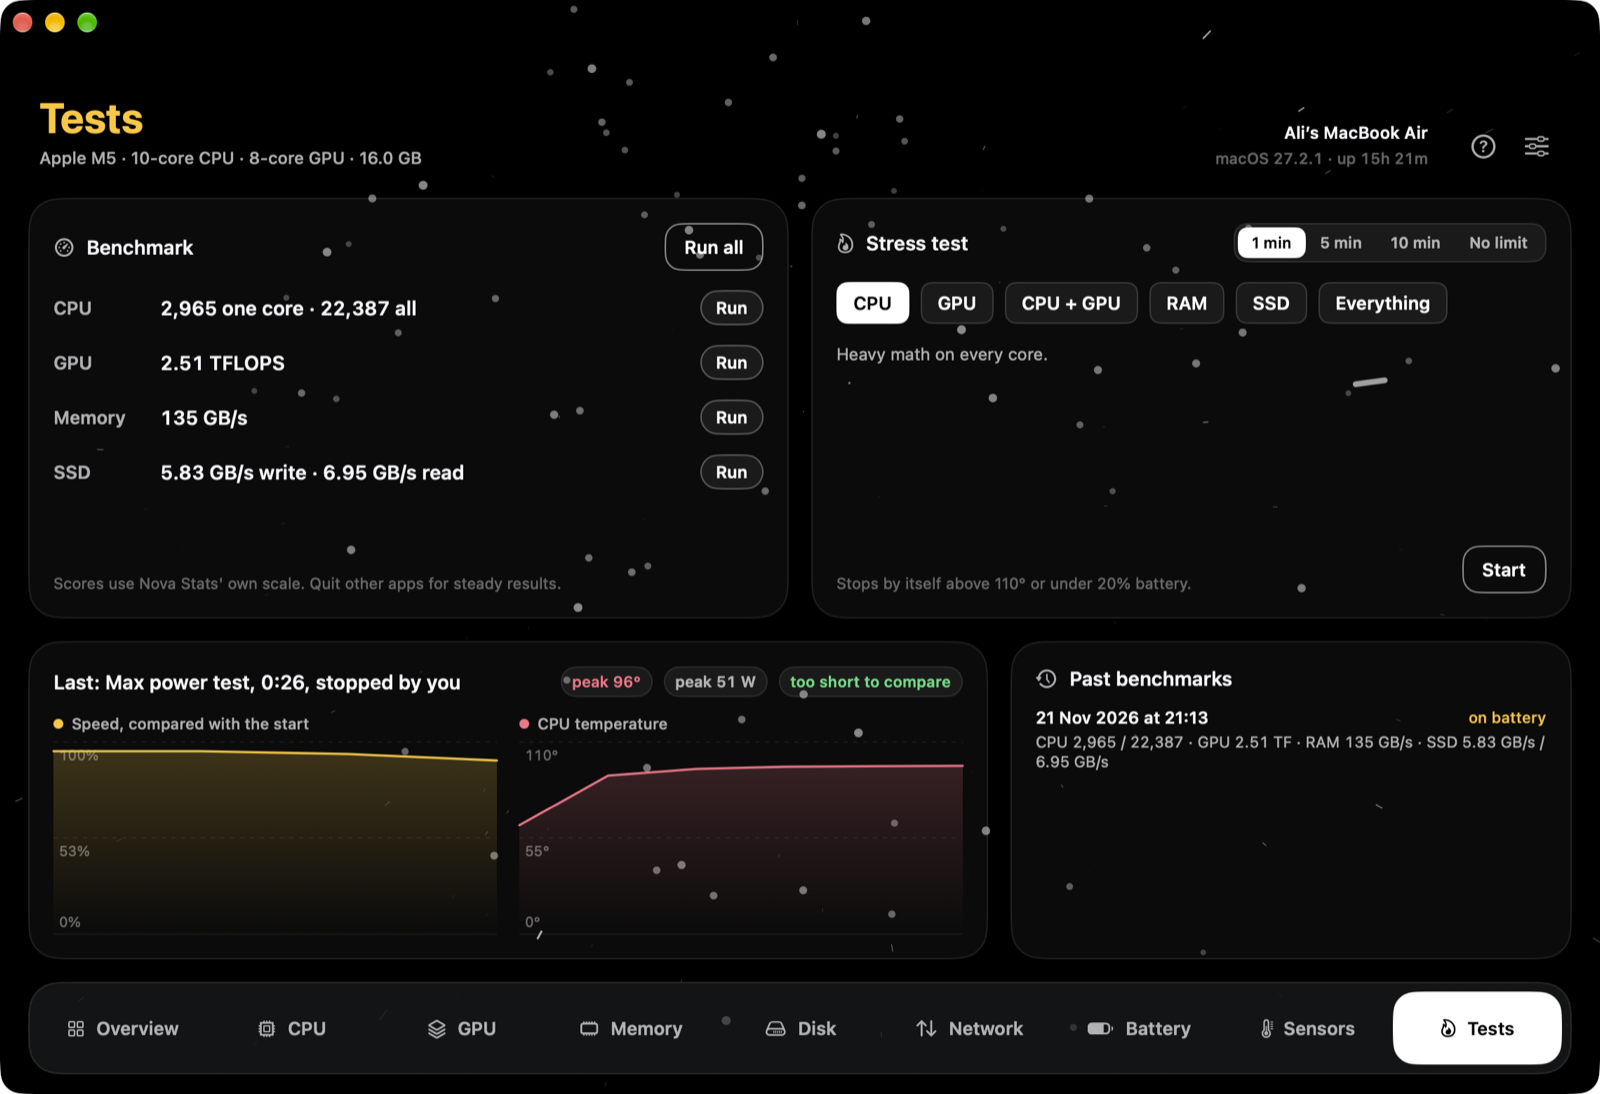
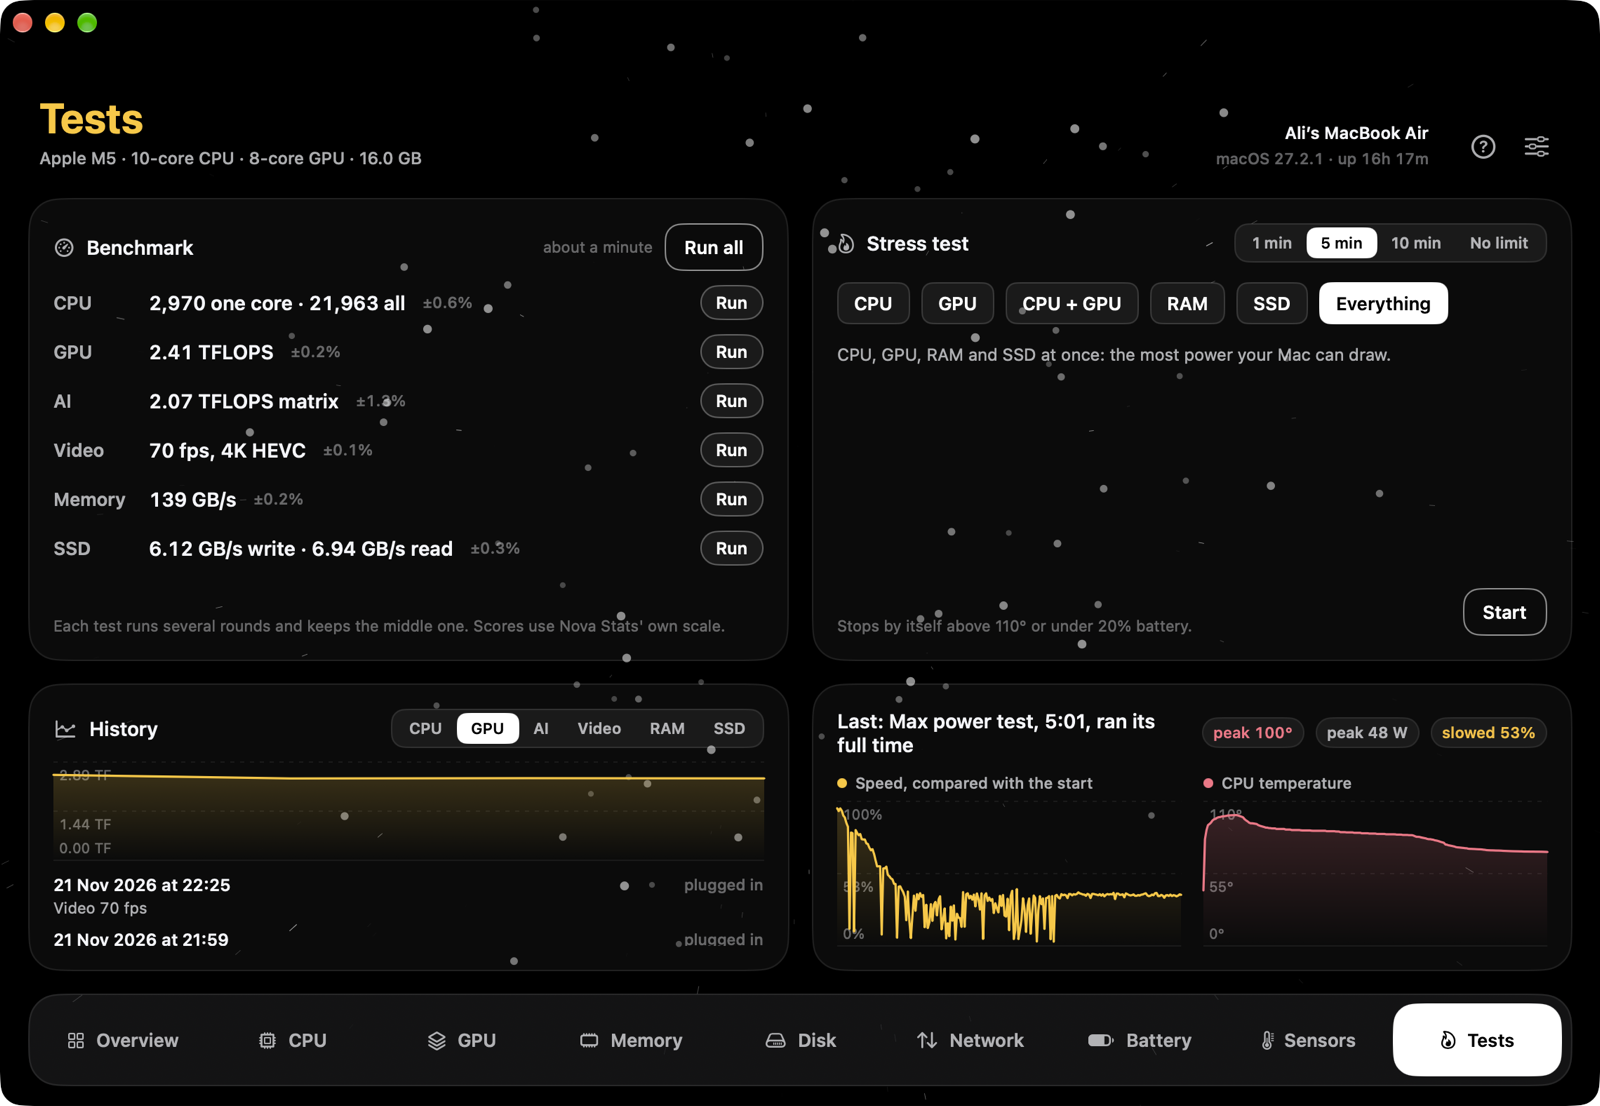
1.3.0: README, website and release notes

diff --git a/docs/index.html b/docs/index.html
@@ -204,6 +204,24 @@
         <p>CPU, GPU, SSD and battery, plus every other sensor the chip has. In °C or °F.</p>
       </div>
     </div>
+    <div class="grid" style="margin-top:16px">
+      <div class="card">
+        <svg viewBox="0 0 24 24"><path d="M12 3l9 5-9 5-9-5z"/><path d="M3 13l9 5 9-5"/></svg>
+        <h3>Chip heat map</h3>
+        <p>A 3D chip with every core sensor lit by its own temperature, so you can see which part of the chip is working hardest.</p>
+      </div>
+      <div class="card">
+        <svg viewBox="0 0 24 24"><path d="M3 7a2 2 0 0 1 2-2h4l2 2h8a2 2 0 0 1 2 2v8a2 2 0 0 1-2 2H5a2 2 0 0 1-2-2z"/><path d="M8 15h8"/></svg>
+        <h3>Storage map</h3>
+        <p>Which folders and files take the most space in your home folder. Click into any folder and show it in Finder. No permission popups.</p>
+      </div>
+      <div class="card">
+        <svg viewBox="0 0 24 24"><path d="M12 3a3 3 0 0 0-3 3v5a3 3 0 0 0 6 0V6a3 3 0 0 0-3-3z"/><path d="M5 11a7 7 0 0 0 14 0M12 18v3"/></svg>
+        <h3>Siri and Shortcuts</h3>
+        <p>"How hot is my Mac in Nova Stats." Ask Siri, or use Nova Stats' actions in the Shortcuts app.</p>
+      </div>
+    </div>
+    <div class="shot" style="margin-top:16px"><img src="sensors.png" alt="The Sensors tab: the 3D chip heat map with performance cores, efficiency cores and GPU lit by temperature, next to the list of every sensor"></div>
     <div class="shot" style="margin-top:16px"><img src="battery.png" alt="The Battery tab: 22% and charging, 6 W for the whole Mac, health 100%, 54 charge cycles, the charger and a power chart"></div>
   </section>
 
@@ -233,7 +251,7 @@
     <div class="grid" style="margin-top:16px">
       <div class="card">
         <svg viewBox="0 0 24 24"><rect x="3" y="6" width="18" height="12" rx="3"/><path d="M7 10h1M11 10h1M15 10h2M7 14h10"/></svg>
-        <h3>Shortcuts from anywhere</h3>
+        <h3>Keyboard shortcuts</h3>
         <p><code>⌃⌥N</code> opens the dashboard, <code>⌃⌥G</code> starts game mode and <code>⌃⌥H</code> hides its overlay, from any app. You can change all three.</p>
       </div>
       <div class="card">
@@ -251,13 +269,13 @@
 
   <section class="block" id="tests">
     <h2>Benchmark and stress test</h2>
-    <p class="lead">Score the CPU, GPU, memory and SSD, then push them to the limit and watch what heat does to a Mac. Tests stop by themselves above 110°, under 20% battery or when the time is up.</p>
-    <div class="shot" style="margin-top:0"><img src="tests.png" alt="The Tests tab: benchmark scores for CPU, GPU, memory and SSD, the stress test picker, and charts of speed and temperature from the last stress test"></div>
+    <p class="lead">Score the CPU, GPU, AI math, video engine, memory and SSD, then push them to the limit and watch what heat does to a Mac. Tests stop by themselves above 110°, under 20% battery or when the time is up.</p>
+    <div class="shot" style="margin-top:0"><img src="tests.png" alt="The Tests tab: benchmark scores for CPU, GPU, AI, video, memory and SSD with how steady each one was, the history chart, the stress test picker, and charts from the last stress test"></div>
     <div class="grid" style="margin-top:16px">
       <div class="card">
         <svg viewBox="0 0 24 24"><path d="M12 14l4-4M5.6 18.4a9 9 0 1 1 12.8 0"/></svg>
         <h3>Benchmark</h3>
-        <p>One core and all cores, GPU in TFLOPS, memory and SSD speed. Your past runs are kept, on battery or plugged in, so you can compare.</p>
+        <p>One core and all cores, GPU and AI matrix math in TFLOPS, 4K video encoding, memory and SSD speed. Each test runs several rounds and keeps the middle one. A history chart and a compare button show how your runs differ.</p>
       </div>
       <div class="card">
         <svg viewBox="0 0 24 24"><path d="M12 3c1 4 5 5 5 10a5 5 0 0 1-10 0c0-3 2-4 2-7 2 1 3 3 3 3"/></svg>
@@ -304,6 +322,9 @@
       <details><summary>Can a stress test damage my Mac?</summary><p>No. Apple Silicon protects itself: when it gets too hot, macOS slows it down, which is exactly what the test shows. Nova Stats also stops a test by itself above 110°, under 20% battery or when its time is up. The SSD test only reads, so it doesn't wear the SSD, and the RAM test never takes so much memory that macOS has to swap.</p></details>
       <details><summary>Why don't my scores match Geekbench or Cinebench?</summary><p>Every benchmark uses its own work and its own scale. Nova Stats' scores are for comparing your own runs: plugged in or on battery, before and after an update, or with another Mac running Nova Stats.</p></details>
       <details><summary>What is game mode?</summary><p>Turn it on from the menu bar or with ⌃⌥G, or let it start by itself when a game goes full screen. While it's on, an overlay shows your stats over the game and warns you if the Mac gets so hot that macOS slows it down. When you stop, you get a report: how long you played and the average and peak CPU, GPU, temperatures and power. macOS doesn't let other apps read a game's FPS, so that isn't shown.</p></details>
+      <details><summary>What does the ± next to a score mean?</summary><p>Each test runs several rounds and keeps the middle one. The ± is how far apart the rounds were. Under 1–2% means the score is solid. A bigger number means something else was busy, so close heavy apps and run it again.</p></details>
+      <details><summary>Why does the storage map say some folders are locked?</summary><p>macOS guards folders like Desktop, Documents, Downloads, Photos and other apps' data, and asks you first when an app wants to open them. So you never get a pile of popups, Nova Stats skips them. To include them, give it Full Disk Access: press Unlock in the storage map, or open System Settings → Privacy &amp; Security → Full Disk Access and turn on Nova Stats.</p></details>
+      <details><summary>Can I use Siri or Shortcuts?</summary><p>Yes. Say "How hot is my Mac in Nova Stats" or "Check my Mac with Nova Stats", or look for Nova Stats in the Shortcuts app. It has actions for the temperature, a quick check of the whole Mac, game mode on and off, and the benchmark.</p></details>
       <details><summary>Why do the widgets update only every few minutes?</summary><p>macOS decides how often widgets may refresh. For numbers that change every second, use the menu bar or game mode's overlay.</p></details>
       <details><summary>Why are some apps missing from the Apps list?</summary><p>Without an administrator password macOS only lets an app look at your own processes, not the system's. Everything you run yourself is there.</p></details>
       <details><summary>Why don't alerts show up?</summary><p>macOS needs your permission for notifications. Open System Settings, then Notifications, find Nova Stats and allow them. Settings → Alerts in the app has a button that takes you there.</p></details>

diff --git a/NovaStats/Model/Help.swift b/NovaStats/Model/Help.swift
@@ -23,6 +23,12 @@ enum Help {
          "No. Apple Silicon protects itself: when it gets too hot, macOS slows it down, which is exactly what the test shows. Nova Stats also stops a test by itself above 110°, under 20% battery or when its time is up. The SSD test only reads, so it doesn't wear the SSD, and the RAM test never takes so much memory that macOS has to swap."),
         ("Why don't my scores match Geekbench or Cinebench?",
          "Every benchmark uses its own work and its own scale. Nova Stats' scores are for comparing your own runs: plugged in or on battery, before and after an update, or with another Mac running Nova Stats."),
+        ("What does the ± next to a score mean?",
+         "Each test runs several rounds and keeps the middle one. The ± is how far apart the rounds were. Under 1–2% means the score is solid. A bigger number means something else was busy, so close heavy apps and run it again."),
+        ("Why does the storage map say some folders are locked?",
+         "macOS guards folders like Desktop, Documents, Downloads, Photos and other apps' data, and asks you first when an app wants to open them. So you never get a pile of popups, Nova Stats skips them. To include them, give it Full Disk Access: press Unlock in the storage map, or open System Settings → Privacy & Security → Full Disk Access and turn on Nova Stats."),
+        ("Can I use Siri or Shortcuts?",
+         "Yes. Say \"How hot is my Mac in Nova Stats\" or \"Check my Mac with Nova Stats\", or look for Nova Stats in the Shortcuts app. It has actions for the temperature, a quick check of the whole Mac, game mode on and off, and the benchmark."),
         ("Why do the widgets update only every few minutes?",
          "macOS decides how often widgets may refresh. For numbers that change every second, use the menu bar or game mode's overlay."),
         ("Why are some apps missing from the Apps list?",

diff --git a/README.md b/README.md
@@ -42,8 +42,17 @@ It's a native SwiftUI app, made for Apple Silicon.
 - **Battery** charge, health, charge cycles, time left, the charger, and how many
   watts the whole Mac uses right now
 - **Temperatures** for the CPU, GPU, SSD and battery, plus every other sensor the chip
-  has, in °C or °F
+  has, in °C or °F, and a **chip heat map**: a 3D chip with every core lit by its own
+  temperature
+- **Storage map** of your home folder: which folders and files take the most space,
+  folder by folder, with a button to show each one in Finder
 - **History** for the last 5 minutes, 30 minutes or hour
+
+<img src="docs/sensors.png" alt="The Sensors tab: the 3D chip heat map with performance cores, efficiency cores and GPU lit by temperature, next to the list of every sensor" width="100%">
+
+The storage map never makes macOS pop up permission dialogs. Folders macOS guards
+(Desktop, Documents, Downloads, Photos, other apps' data) are skipped and marked as
+locked, unless you give Nova Stats Full Disk Access.
 
 <img src="docs/battery.png" alt="The Battery tab: 22% and charging, 6 W for the whole Mac, health 100%, 54 charge cycles, the charger and a power chart" width="100%">
 
@@ -69,9 +78,13 @@ it start by itself when a game goes full screen.
   <img src="docs/report.png" alt="A session report: time played, average and peak CPU, GPU, power and temperatures, and a temperature chart" width="380">
 </p>
 
-**Shortcuts** work from any app: <kbd>⌃⌥N</kbd> opens or closes the dashboard,
+**Keyboard shortcuts** work from any app: <kbd>⌃⌥N</kbd> opens or closes the dashboard,
 <kbd>⌃⌥G</kbd> starts or stops game mode and <kbd>⌃⌥H</kbd> shows or hides its overlay.
 You can change all three in Settings.
+
+**Siri and Shortcuts** know Nova Stats too. Say "How hot is my Mac in Nova Stats" or
+"Check my Mac with Nova Stats", or use its actions in the Shortcuts app: the temperature,
+a one-line check of the whole Mac, game mode on and off, and the benchmark.
 
 **Alerts** tell you when the Mac runs hot, memory gets tight, the disk is almost full
 or the CPU has been busy for a minute. Each one at most every half hour.
@@ -85,10 +98,15 @@ Everything is optional and set up in **Settings**, a panel inside the dashboard
 
 ## Benchmark and stress test
 
-The **Tests** tab benchmarks the CPU (one core and all cores), the GPU, memory and the
-SSD, and keeps your past runs, marked on battery or plugged in, so you can compare them.
-The scores are on Nova Stats' own scale, so they're for comparing your own runs, not
-Geekbench numbers.
+The **Tests** tab benchmarks the CPU (one core and all cores), the GPU, AI matrix math,
+the video engine (4K HEVC encoding), memory and the SSD. Each test warms up first, runs
+several rounds and keeps the middle one, and shows how far apart the rounds were, so you
+know how much to trust the number. The full run takes about a minute.
+
+Your past runs are kept, marked on battery or plugged in. The history chart shows any
+score over time, and clicking an older run compares it with the latest one. The scores
+are on Nova Stats' own scale, so they're for comparing your own runs, not Geekbench
+numbers.
 
 Its **stress tests** push the CPU, the GPU, both, the RAM, the SSD, or everything at once
 (the max power test) for 1, 5 or 10 minutes or until you stop. Live charts show the speed
@@ -100,7 +118,7 @@ Tests stop by themselves above 110°, under 20% battery or when the time is up. 
 test only reads, so it doesn't wear the SSD, and the RAM test never takes so much memory
 that macOS has to swap.
 
-<img src="docs/tests.png" alt="The Tests tab: benchmark scores for CPU, GPU, memory and SSD, the stress test picker, and charts of speed and temperature from the last stress test" width="100%">
+<img src="docs/tests.png" alt="The Tests tab: benchmark scores for CPU, GPU, AI, video, memory and SSD with how steady each one was, the history chart, the stress test picker, and charts from the last stress test" width="100%">
 
 ## Download
 
@@ -150,9 +168,15 @@ and in the app under Settings → About.
 - **Background work**: anything you can't see right now (a closed dashboard, a tab
   you're not on) is measured every 5 to 30 seconds instead of every second, so with
   only the menu bar it costs about 1–2% of one CPU core
-- **Benchmarks and stress tests**: integer and vector math on every core, a Metal
-  shader made of independent multiply-adds for the GPU, a parallel copy of big buffers
-  for memory, and reads and writes past the system cache (`F_NOCACHE`) for the SSD
+- **Benchmarks and stress tests**: three kinds of CPU work (integer math, vector math
+  and sorting, scored by their geometric mean), a Metal shader made of independent
+  multiply-adds for the GPU, `cblas_sgemm` from Accelerate on 2048×2048 matrices for AI
+  math, VideoToolbox's hardware HEVC encoder at 4K, a parallel copy of big buffers for
+  memory, and a 4 GB file written and read past the system cache (`F_NOCACHE`) for the SSD
+- **Storage map**: one pass over the home folder that adds every folder's size into its
+  parent, so moving around the result is instant. Without Full Disk Access it doesn't
+  open the folders macOS guards, because opening them is what shows the popups
+- **Siri and Shortcuts**: App Intents with App Shortcuts, so they work without setup
 - **Stars**: drawn with Metal, so the open dashboard costs about 7% of one CPU core. The shader compiles at launch, so the project builds
   without Xcode's separate Metal toolchain
 - **Widgets**: the app writes a small JSON file to `~/Library/Application Support/Nova Stats`

diff --git a/.github/release-notes.md b/.github/release-notes.md
@@ -1,4 +1,4 @@
-Benchmarks and stress tests.
+Longer, steadier benchmarks, a chip heat map, a storage map, and Siri.
 
 **Install:** download `Nova-Stats.dmg`, open it and drag Nova Stats into Applications.
 The first time, macOS says it can't check the app, because it isn't signed with a paid
@@ -7,18 +7,23 @@ Apple developer account. Open System Settings → Privacy & Security, scroll dow
 
 What's new:
 
-- **Tests tab.** Benchmark the CPU (one core and all cores), the GPU, memory and the SSD,
-  and compare with your past runs, marked on battery or plugged in.
-- **Stress tests.** Push the CPU, the GPU, both, the RAM, the SSD, or everything at once
-  (the max power test) for 1, 5 or 10 minutes or until you stop. Live charts show the speed
-  and the temperature, and the summary tells you the peak temperature and watts and how
-  much the Mac slowed down from heat.
-- **Buttons where you need them.** The CPU, GPU, Memory, Disk and Battery tabs can start
-  their own test, so you can watch the cores fill up right where they're shown.
-- **Safe by design.** Tests stop by themselves above 110°, under 20% battery or when the
-  time is up. The SSD test only reads, so it doesn't wear the SSD, and the RAM test never
-  takes so much memory that macOS has to swap.
+- **More accurate benchmarks.** Every test warms up, runs several rounds and keeps the
+  middle one, and shows how far apart the rounds were (±). The CPU score now mixes three
+  kinds of work: integer math, vector math and sorting. The SSD test uses a 4 GB file.
+- **AI and video benchmarks.** Matrix math through Accelerate, the kind AI and photo apps
+  use, and 4K HEVC encoding on the chip's video engine.
+- **History chart.** Pick a score and see it over all your runs, and click an older run
+  to compare it with the latest one.
+- **Chip heat map.** The Sensors tab has a 3D chip with every core lit by its own
+  temperature.
+- **Storage map.** The Disk tab shows which folders and files take the most space in
+  your home folder. It never makes macOS pop up permission dialogs: guarded folders like
+  Desktop and Documents are marked as locked unless you give Nova Stats Full Disk Access.
+- **Siri and Shortcuts.** "How hot is my Mac in Nova Stats", "Check my Mac with Nova
+  Stats", game mode on and off, and the benchmark, as Siri phrases and Shortcuts actions.
+- **Fixes.** The menu bar no longer jumps to two lines when a value reaches 100%, and
+  small pickers no longer cut their labels in a narrow window.
 
-Scores are on Nova Stats' own scale, for comparing your own runs.
+CPU scores from 1.2 were on an older scale, so the history marks them as such.
 
 Needs macOS 15 or newer. Made for Apple Silicon.
